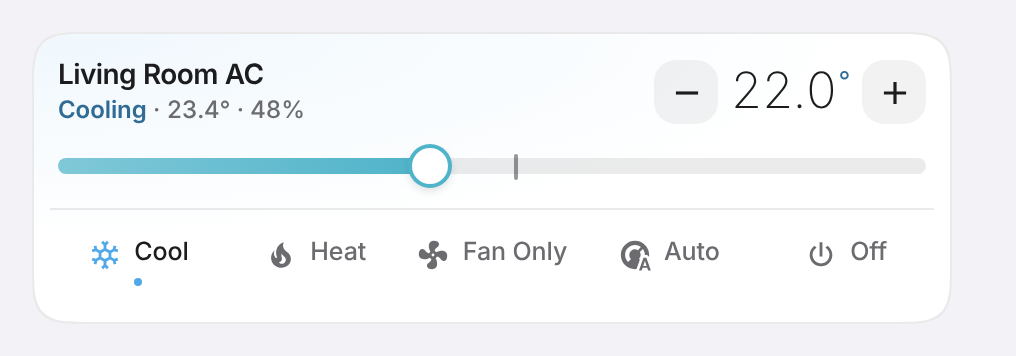
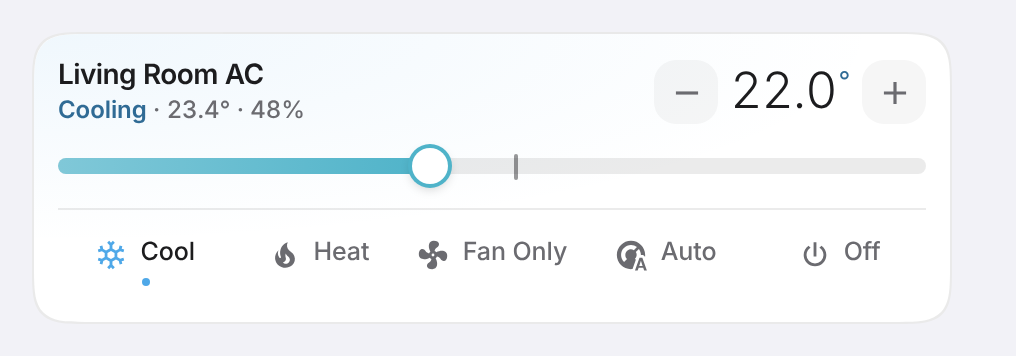
Grid heights for every card, light rows end with their state, climate tuned to the rest (0.20.2)
- Every card rounds its height up to whole sections-grid rows so neighbours end together; grid_options.rows and grid_snap: false opt out.
- Light rows: the state is last, the colour dot before it; the level is clipped to the row's corners while it animates.
- Climate: 32px header power key, quiet 40px steps, a steadier number, the modes' hairline within the card's edges.

diff --git a/dist/savvy-cards.js b/dist/savvy-cards.js
@@ -383,7 +383,57 @@ const BASE_CSS = `${ROLL_CSS}${GLOW_CSS}${DESIGN_CSS}
 
 // Registers a card for HA's card picker. Every Savvy card goes through this so the
 // picker shows them together, with previews.
+// Grid heights. In a sections view Home Assistant lays cards on rows of 56px with 8px between; a card
+// that sizes itself ("rows: auto") ends wherever its content ends, so two cards side by side that are
+// nearly the same height end a few pixels apart. Every Savvy card rounds its height up to whole rows,
+// so neighbours line up. Only inside a sections grid (it defines --row-height), never for a card given
+// a number of rows (Home Assistant sizes those), and `grid_snap: false` turns it off.
+function snapToGrid(host) {
+  const card = host.shadowRoot?.querySelector("ha-card");
+  if (!card) return;
+  const cs = getComputedStyle(host);
+  const row = parseFloat(cs.getPropertyValue("--row-height")), gap = parseFloat(cs.getPropertyValue("--row-gap"));
+  const rows = host._config?.grid_options?.rows ?? host.getGridOptions?.()?.rows;
+  const off = !Number.isFinite(row) || row <= 0 || typeof rows === "number" || host._config?.grid_snap === false;
+  const prev = card.style.minHeight;
+  if (off) { if (prev) card.style.minHeight = ""; return; }
+  // the natural height, measured without our own floor; putting the same value back reports no resize
+  card.style.minHeight = "";
+  const natural = card.offsetHeight;
+  if (!natural) { card.style.minHeight = prev; return; }
+  const step = row + (Number.isFinite(gap) ? gap : 8);
+  const snapped = Math.ceil((natural + step - row - 0.5) / step) * step - (step - row);
+  card.style.minHeight = `${Math.max(natural, snapped)}px`;
+}
+function wireGridSnap(cls) {
+  const proto = cls.prototype;
+  if (proto.__gridSnap) return;
+  proto.__gridSnap = true;
+  const connect = proto.connectedCallback, disconnect = proto.disconnectedCallback;
+  proto.connectedCallback = function () {
+    connect?.call(this);
+    if (this.__snapRo) return;
+    let card = null;
+    const seen = new WeakSet();
+    const ro = this.__snapRo = new ResizeObserver(() => {
+      // the card builds its shadow DOM when it gets hass: follow whichever ha-card is there now
+      const now = this.shadowRoot?.querySelector("ha-card") || null;
+      if (now !== card) { if (card) ro.unobserve(card); card = now; if (card) ro.observe(card); }
+      // content that shrinks inside a card held at its rows doesn't resize the card: watch the content too
+      for (const child of card?.children || []) if (!seen.has(child)) { seen.add(child); ro.observe(child); }
+      snapToGrid(this);
+    });
+    ro.observe(this);
+  };
+  proto.disconnectedCallback = function () {
+    disconnect?.call(this);
+    this.__snapRo?.disconnect();
+    this.__snapRo = null;
+  };
+}
+
 const registerCard = (type, cls, name, description) => {
+  wireGridSnap(cls);             // whole grid rows, so cards side by side end together
   wireSettings(type, cls);       // fills in what the dashboard's Savvy settings supply (core/settings)
   if (!customElements.get(type)) customElements.define(type, cls);
   window.customCards = window.customCards || [];
@@ -8443,32 +8493,37 @@ const STYLE = `
   ha-card { --accent-text: rgb(var(--accent)); }
   :host(:not([dark])) ha-card { --accent-text: color-mix(in oklab, rgb(var(--accent)) 72%, #000); }
 
+  /* the header key every card shares: 32px, tinted while on, a bare glyph while off */
   .power {
     flex: none; display: grid; place-items: center;
-    width: var(--c-l); height: var(--c-l); border-radius: 13px;
-    background: var(--well); color: var(--secondary-text-color);
+    width: var(--c-s); height: var(--c-s); border-radius: 11px;
+    background: transparent; color: var(--secondary-text-color);
   }
+  @media (hover: hover) { .power:not([data-on]):hover { background: var(--well); } }
   .power[data-on] { background: color-mix(in oklab, rgb(var(--accent)) var(--mix-on), transparent); color: rgb(var(--accent)); }
-  .power ha-icon { --mdc-icon-size: 21px; display: flex; }
+  .power ha-icon { --mdc-icon-size: 19px; display: flex; }
 
   /* ---- target temperature ---- */
-  .hero { display: flex; align-items: center; gap: 12px; margin-top: 10px; }
+  .hero { display: flex; align-items: center; gap: 12px; margin-top: 12px; }
   /* glass and matte: the target and its buttons are one tile, lit in the mode's colour */
   ha-card:is([data-glass], [data-matte]):not([data-compact]) .hero { padding: 10px 12px; border-radius: 18px; background: color-mix(in oklab, var(--primary-text-color) 4%, transparent); }
   ha-card[data-glass] .hero, ha-card[data-matte] .hero { --lx: 50%; --ly: 55%; }   /* the light comes from the number, now in the middle */
   .readout { flex: 1; min-width: 0; display: flex; align-items: flex-start; justify-content: center; order: 1; }
   .value {
-    font-size: 66px; line-height: 1; font-weight: 250; letter-spacing: -0.055em;
+    font-size: 60px; line-height: 1; font-weight: 300; letter-spacing: -0.045em;
     color: var(--primary-text-color);
   }
   .unit {
-    font-size: 26px; line-height: 1; font-weight: 400; letter-spacing: -0.01em;
-    color: var(--accent-text); margin: 10px 0 0 3px;
+    font-size: 22px; line-height: 1; font-weight: 400; letter-spacing: -0.01em;
+    color: var(--accent-text); margin: 8px 0 0 3px;
   }
   .steppers { display: contents; }
   #minus { order: 0; } #plus { order: 2; }
-  .step { display: grid; place-items: center; width: var(--c-l); height: var(--c-l); border-radius: 13px; background: var(--well); }
-  .step ha-icon { --mdc-icon-size: 22px; display: flex; }
+  /* quiet steps either side: a faint well, the rows' own material, not a grey block */
+  .step { display: grid; place-items: center; width: var(--c-l); height: var(--c-l); border-radius: 13px;
+    background: color-mix(in oklab, var(--primary-text-color) 4%, transparent); color: var(--secondary-text-color); }
+  @media (hover: hover) { .step:not([disabled]):hover { background: var(--well); color: var(--primary-text-color); } }
+  .step ha-icon { --mdc-icon-size: 20px; display: flex; }
   .step[disabled] { opacity: 0.34; cursor: default; }
 
   /* the bar is the control: grab it anywhere, it thickens under the finger */
@@ -8493,8 +8548,8 @@ const STYLE = `
   }
   .bounds {
     display: flex; justify-content: space-between;
-    margin: 2px 7px 0; font-size: 11px; line-height: 14px; font-weight: 500; letter-spacing: 0.01em;
-    color: var(--secondary-text-color); opacity: 0.75;
+    margin: 2px 7px 0; font-size: 12px; line-height: 16px; font-weight: 500; letter-spacing: -0.002em;
+    color: var(--secondary-text-color);
   }
 
   /* ---- readouts ---- */
@@ -8505,7 +8560,7 @@ const STYLE = `
   .stat ha-icon, .stat savvy-state-icon { --mdc-icon-size: 16px; flex: none; display: flex; color: var(--sc, var(--secondary-text-color)); }
   .stat .col { min-width: 0; display: flex; align-items: baseline; gap: 4px; }
   .stat .v { font-size: 14px; line-height: 18px; font-weight: 600; letter-spacing: -0.012em; white-space: nowrap; }
-  .stat .k { font-size: 13.5px; line-height: 18px; font-weight: 500; letter-spacing: -0.004em;
+  .stat .k { font-size: 13px; line-height: 18px; font-weight: 500; letter-spacing: -0.004em;
     color: var(--secondary-text-color); white-space: nowrap; overflow: hidden; text-overflow: ellipsis; text-transform: lowercase; }
 
   /* ---- segmented control ---- */
@@ -8514,7 +8569,7 @@ const STYLE = `
     padding: 3px; border-radius: 14px; background: var(--well);
   }
   /* the modes: a row of words under a hairline, the chosen one marked by its colour and a dot that slides */
-  .segmented.modes { margin: 14px -4px 0; padding: 6px 0 0; border-radius: 0; background: none; border-top: 1px solid var(--line); gap: 0; }
+  .segmented.modes { margin: 14px 0 0; padding: 6px 0 0; border-radius: 0; background: none; border-top: 1px solid var(--line); gap: 0; }
   .modes .seg { flex-direction: column; gap: 5px; height: 56px; padding-bottom: 6px; font-size: 13px; }
   .modes .seg ha-icon { --mdc-icon-size: 20px; }
   .segmented.modes .pill, .segmented.modes .pill[data-colored] { background: transparent; box-shadow: none; }
@@ -13161,8 +13216,10 @@ header { display: flex; align-items: center; gap: 10px; min-width: 0; padding: 2
 .light {
   position: relative; overflow: hidden; isolation: isolate;
   display: grid; grid-template-columns: var(--b-s) minmax(0, 1fr) auto; align-items: center; column-gap: 8px;
-  min-height: 56px; padding: 0 8px 0 12px; border-radius: 16px;
+  min-height: 56px; padding: 0 12px 0 12px; border-radius: 16px;
   background: var(--well); cursor: pointer; touch-action: pan-y;
+  /* overflow alone stops clipping to the corners while the level animates on its own layer: clip-path holds */
+  --row-r: 16px; clip-path: inset(0 round var(--row-r));
   --lit-text: rgb(var(--lc, var(--amber)));
 }
 :host(:not([dark])) .light { --lit-text: color-mix(in oklab, rgb(var(--lc, var(--amber))) 80%, #000); }
@@ -13194,8 +13251,9 @@ header { display: flex; align-items: center; gap: 10px; min-width: 0; padding: 2
 .meta .n { min-width: 0; font-size: 14px; line-height: 18px; font-weight: 560; letter-spacing: -0.01em;
   color: var(--secondary-text-color); white-space: nowrap; overflow: hidden; text-overflow: ellipsis; }
 .light[data-on] .meta .n { color: var(--primary-text-color); }
-.end { display: flex; align-items: center; gap: 0; }
-.d { flex: none; min-width: 34px; padding-inline-end: 4px; text-align: end;
+/* the state ends the row; the colour dot sits just before it, a power button before that */
+.end { display: flex; align-items: center; gap: 0; margin-inline-end: -2px; }
+.d { flex: none; min-width: 34px; padding-inline-start: 2px; text-align: end;
   font-size: 13px; line-height: 18px; font-weight: 500; letter-spacing: -0.004em; color: var(--secondary-text-color);
   white-space: nowrap; pointer-events: none; }
 .light[data-on] .d { color: var(--primary-text-color); }
@@ -13222,7 +13280,7 @@ ha-card[data-glass] .light, ha-card[data-matte] .light { --lx: 26px; --ly: 50%; 
 .light:not([data-dim]) .lvl { transition: transform 320ms cubic-bezier(0.2, 0.8, 0.2, 1); }
 @media (prefers-reduced-motion: reduce) { .light .lvl { transition: none; } }
 /* ---- compact: the light, its name and its state, and nothing else ---- */
-ha-card[data-compact] .light { grid-template-columns: var(--b-s) minmax(0, 1fr) auto; min-height: 46px; padding: 0 10px 0 8px; border-radius: 13px; --lx: 22px; }
+ha-card[data-compact] .light { grid-template-columns: var(--b-s) minmax(0, 1fr) auto; min-height: 46px; padding: 0 10px 0 8px; border-radius: 13px; --row-r: 13px; --lx: 22px; }
 ha-card[data-compact] .orb { width: var(--b-s); height: var(--b-s); }
 ha-card[data-compact] .orb ha-icon, ha-card[data-compact] .orb savvy-state-icon { --mdc-icon-size: 18px; }
 ha-card[data-compact] .meta .n { font-size: 13.5px; line-height: 18px; }
@@ -14085,9 +14143,9 @@ class LightsCard extends HTMLElement {
         <span class="orb"><savvy-state-icon></savvy-state-icon></span>
         <span class="meta"><span class="n"></span></span>
         <span class="end">
-          <span class="d"></span>
-          <button class="swatch" hidden><i></i></button>
           <button class="power" hidden><ha-icon icon="mdi:power"></ha-icon></button>
+          <button class="swatch" hidden><i></i></button>
+          <span class="d"></span>
         </span>`;
       cache.set(key, node);
       el.grid.appendChild(node);

diff --git a/src/cards/climate.js b/src/cards/climate.js
@@ -158,32 +158,37 @@ const STYLE = `
   ha-card { --accent-text: rgb(var(--accent)); }
   :host(:not([dark])) ha-card { --accent-text: color-mix(in oklab, rgb(var(--accent)) 72%, #000); }
 
+  /* the header key every card shares: 32px, tinted while on, a bare glyph while off */
   .power {
     flex: none; display: grid; place-items: center;
-    width: var(--c-l); height: var(--c-l); border-radius: 13px;
-    background: var(--well); color: var(--secondary-text-color);
+    width: var(--c-s); height: var(--c-s); border-radius: 11px;
+    background: transparent; color: var(--secondary-text-color);
   }
+  @media (hover: hover) { .power:not([data-on]):hover { background: var(--well); } }
   .power[data-on] { background: color-mix(in oklab, rgb(var(--accent)) var(--mix-on), transparent); color: rgb(var(--accent)); }
-  .power ha-icon { --mdc-icon-size: 21px; display: flex; }
+  .power ha-icon { --mdc-icon-size: 19px; display: flex; }
 
   /* ---- target temperature ---- */
-  .hero { display: flex; align-items: center; gap: 12px; margin-top: 10px; }
+  .hero { display: flex; align-items: center; gap: 12px; margin-top: 12px; }
   /* glass and matte: the target and its buttons are one tile, lit in the mode's colour */
   ha-card:is([data-glass], [data-matte]):not([data-compact]) .hero { padding: 10px 12px; border-radius: 18px; background: color-mix(in oklab, var(--primary-text-color) 4%, transparent); }
   ha-card[data-glass] .hero, ha-card[data-matte] .hero { --lx: 50%; --ly: 55%; }   /* the light comes from the number, now in the middle */
   .readout { flex: 1; min-width: 0; display: flex; align-items: flex-start; justify-content: center; order: 1; }
   .value {
-    font-size: 66px; line-height: 1; font-weight: 250; letter-spacing: -0.055em;
+    font-size: 60px; line-height: 1; font-weight: 300; letter-spacing: -0.045em;
     color: var(--primary-text-color);
   }
   .unit {
-    font-size: 26px; line-height: 1; font-weight: 400; letter-spacing: -0.01em;
-    color: var(--accent-text); margin: 10px 0 0 3px;
+    font-size: 22px; line-height: 1; font-weight: 400; letter-spacing: -0.01em;
+    color: var(--accent-text); margin: 8px 0 0 3px;
   }
   .steppers { display: contents; }
   #minus { order: 0; } #plus { order: 2; }
-  .step { display: grid; place-items: center; width: var(--c-l); height: var(--c-l); border-radius: 13px; background: var(--well); }
-  .step ha-icon { --mdc-icon-size: 22px; display: flex; }
+  /* quiet steps either side: a faint well, the rows' own material, not a grey block */
+  .step { display: grid; place-items: center; width: var(--c-l); height: var(--c-l); border-radius: 13px;
+    background: color-mix(in oklab, var(--primary-text-color) 4%, transparent); color: var(--secondary-text-color); }
+  @media (hover: hover) { .step:not([disabled]):hover { background: var(--well); color: var(--primary-text-color); } }
+  .step ha-icon { --mdc-icon-size: 20px; display: flex; }
   .step[disabled] { opacity: 0.34; cursor: default; }
 
   /* the bar is the control: grab it anywhere, it thickens under the finger */
@@ -208,8 +213,8 @@ const STYLE = `
   }
   .bounds {
     display: flex; justify-content: space-between;
-    margin: 2px 7px 0; font-size: 11px; line-height: 14px; font-weight: 500; letter-spacing: 0.01em;
-    color: var(--secondary-text-color); opacity: 0.75;
+    margin: 2px 7px 0; font-size: 12px; line-height: 16px; font-weight: 500; letter-spacing: -0.002em;
+    color: var(--secondary-text-color);
   }
 
   /* ---- readouts ---- */
@@ -220,7 +225,7 @@ const STYLE = `
   .stat ha-icon, .stat savvy-state-icon { --mdc-icon-size: 16px; flex: none; display: flex; color: var(--sc, var(--secondary-text-color)); }
   .stat .col { min-width: 0; display: flex; align-items: baseline; gap: 4px; }
   .stat .v { font-size: 14px; line-height: 18px; font-weight: 600; letter-spacing: -0.012em; white-space: nowrap; }
-  .stat .k { font-size: 13.5px; line-height: 18px; font-weight: 500; letter-spacing: -0.004em;
+  .stat .k { font-size: 13px; line-height: 18px; font-weight: 500; letter-spacing: -0.004em;
     color: var(--secondary-text-color); white-space: nowrap; overflow: hidden; text-overflow: ellipsis; text-transform: lowercase; }
 
   /* ---- segmented control ---- */
@@ -229,7 +234,7 @@ const STYLE = `
     padding: 3px; border-radius: 14px; background: var(--well);
   }
   /* the modes: a row of words under a hairline, the chosen one marked by its colour and a dot that slides */
-  .segmented.modes { margin: 14px -4px 0; padding: 6px 0 0; border-radius: 0; background: none; border-top: 1px solid var(--line); gap: 0; }
+  .segmented.modes { margin: 14px 0 0; padding: 6px 0 0; border-radius: 0; background: none; border-top: 1px solid var(--line); gap: 0; }
   .modes .seg { flex-direction: column; gap: 5px; height: 56px; padding-bottom: 6px; font-size: 13px; }
   .modes .seg ha-icon { --mdc-icon-size: 20px; }
   .segmented.modes .pill, .segmented.modes .pill[data-colored] { background: transparent; box-shadow: none; }

diff --git a/src/cards/lights.js b/src/cards/lights.js
@@ -164,8 +164,10 @@ header { display: flex; align-items: center; gap: 10px; min-width: 0; padding: 2
 .light {
   position: relative; overflow: hidden; isolation: isolate;
   display: grid; grid-template-columns: var(--b-s) minmax(0, 1fr) auto; align-items: center; column-gap: 8px;
-  min-height: 56px; padding: 0 8px 0 12px; border-radius: 16px;
+  min-height: 56px; padding: 0 12px 0 12px; border-radius: 16px;
   background: var(--well); cursor: pointer; touch-action: pan-y;
+  /* overflow alone stops clipping to the corners while the level animates on its own layer: clip-path holds */
+  --row-r: 16px; clip-path: inset(0 round var(--row-r));
   --lit-text: rgb(var(--lc, var(--amber)));
 }
 :host(:not([dark])) .light { --lit-text: color-mix(in oklab, rgb(var(--lc, var(--amber))) 80%, #000); }
@@ -197,8 +199,9 @@ header { display: flex; align-items: center; gap: 10px; min-width: 0; padding: 2
 .meta .n { min-width: 0; font-size: 14px; line-height: 18px; font-weight: 560; letter-spacing: -0.01em;
   color: var(--secondary-text-color); white-space: nowrap; overflow: hidden; text-overflow: ellipsis; }
 .light[data-on] .meta .n { color: var(--primary-text-color); }
-.end { display: flex; align-items: center; gap: 0; }
-.d { flex: none; min-width: 34px; padding-inline-end: 4px; text-align: end;
+/* the state ends the row; the colour dot sits just before it, a power button before that */
+.end { display: flex; align-items: center; gap: 0; margin-inline-end: -2px; }
+.d { flex: none; min-width: 34px; padding-inline-start: 2px; text-align: end;
   font-size: 13px; line-height: 18px; font-weight: 500; letter-spacing: -0.004em; color: var(--secondary-text-color);
   white-space: nowrap; pointer-events: none; }
 .light[data-on] .d { color: var(--primary-text-color); }
@@ -225,7 +228,7 @@ ha-card[data-glass] .light, ha-card[data-matte] .light { --lx: 26px; --ly: 50%; 
 .light:not([data-dim]) .lvl { transition: transform 320ms cubic-bezier(0.2, 0.8, 0.2, 1); }
 @media (prefers-reduced-motion: reduce) { .light .lvl { transition: none; } }
 /* ---- compact: the light, its name and its state, and nothing else ---- */
-ha-card[data-compact] .light { grid-template-columns: var(--b-s) minmax(0, 1fr) auto; min-height: 46px; padding: 0 10px 0 8px; border-radius: 13px; --lx: 22px; }
+ha-card[data-compact] .light { grid-template-columns: var(--b-s) minmax(0, 1fr) auto; min-height: 46px; padding: 0 10px 0 8px; border-radius: 13px; --row-r: 13px; --lx: 22px; }
 ha-card[data-compact] .orb { width: var(--b-s); height: var(--b-s); }
 ha-card[data-compact] .orb ha-icon, ha-card[data-compact] .orb savvy-state-icon { --mdc-icon-size: 18px; }
 ha-card[data-compact] .meta .n { font-size: 13.5px; line-height: 18px; }
@@ -1088,9 +1091,9 @@ class LightsCard extends HTMLElement {
         <span class="orb"><savvy-state-icon></savvy-state-icon></span>
         <span class="meta"><span class="n"></span></span>
         <span class="end">
-          <span class="d"></span>
-          <button class="swatch" hidden><i></i></button>
           <button class="power" hidden><ha-icon icon="mdi:power"></ha-icon></button>
+          <button class="swatch" hidden><i></i></button>
+          <span class="d"></span>
         </span>`;
       cache.set(key, node);
       el.grid.appendChild(node);

diff --git a/src/core/00-base.js b/src/core/00-base.js
@@ -377,7 +377,57 @@ const BASE_CSS = `${ROLL_CSS}${GLOW_CSS}${DESIGN_CSS}
 
 // Registers a card for HA's card picker. Every Savvy card goes through this so the
 // picker shows them together, with previews.
+// Grid heights. In a sections view Home Assistant lays cards on rows of 56px with 8px between; a card
+// that sizes itself ("rows: auto") ends wherever its content ends, so two cards side by side that are
+// nearly the same height end a few pixels apart. Every Savvy card rounds its height up to whole rows,
+// so neighbours line up. Only inside a sections grid (it defines --row-height), never for a card given
+// a number of rows (Home Assistant sizes those), and `grid_snap: false` turns it off.
+function snapToGrid(host) {
+  const card = host.shadowRoot?.querySelector("ha-card");
+  if (!card) return;
+  const cs = getComputedStyle(host);
+  const row = parseFloat(cs.getPropertyValue("--row-height")), gap = parseFloat(cs.getPropertyValue("--row-gap"));
+  const rows = host._config?.grid_options?.rows ?? host.getGridOptions?.()?.rows;
+  const off = !Number.isFinite(row) || row <= 0 || typeof rows === "number" || host._config?.grid_snap === false;
+  const prev = card.style.minHeight;
+  if (off) { if (prev) card.style.minHeight = ""; return; }
+  // the natural height, measured without our own floor; putting the same value back reports no resize
+  card.style.minHeight = "";
+  const natural = card.offsetHeight;
+  if (!natural) { card.style.minHeight = prev; return; }
+  const step = row + (Number.isFinite(gap) ? gap : 8);
+  const snapped = Math.ceil((natural + step - row - 0.5) / step) * step - (step - row);
+  card.style.minHeight = `${Math.max(natural, snapped)}px`;
+}
+function wireGridSnap(cls) {
+  const proto = cls.prototype;
+  if (proto.__gridSnap) return;
+  proto.__gridSnap = true;
+  const connect = proto.connectedCallback, disconnect = proto.disconnectedCallback;
+  proto.connectedCallback = function () {
+    connect?.call(this);
+    if (this.__snapRo) return;
+    let card = null;
+    const seen = new WeakSet();
+    const ro = this.__snapRo = new ResizeObserver(() => {
+      // the card builds its shadow DOM when it gets hass: follow whichever ha-card is there now
+      const now = this.shadowRoot?.querySelector("ha-card") || null;
+      if (now !== card) { if (card) ro.unobserve(card); card = now; if (card) ro.observe(card); }
+      // content that shrinks inside a card held at its rows doesn't resize the card: watch the content too
+      for (const child of card?.children || []) if (!seen.has(child)) { seen.add(child); ro.observe(child); }
+      snapToGrid(this);
+    });
+    ro.observe(this);
+  };
+  proto.disconnectedCallback = function () {
+    disconnect?.call(this);
+    this.__snapRo?.disconnect();
+    this.__snapRo = null;
+  };
+}
+
 const registerCard = (type, cls, name, description) => {
+  wireGridSnap(cls);             // whole grid rows, so cards side by side end together
   wireSettings(type, cls);       // fills in what the dashboard's Savvy settings supply (core/settings)
   if (!customElements.get(type)) customElements.define(type, cls);
   window.customCards = window.customCards || [];

diff --git a/CHANGELOG.md b/CHANGELOG.md
@@ -15,6 +15,13 @@
   (Spotify, Bluetooth: its source isn't the TV) is never the TV's sound: it stays in Listen with its own bar
   (`output_source` names its TV input when it has another name). With two TVs each is its own screen, and a
   source with no `screen` of its own plays on the first.
+- **Grid heights:** in a sections view every card is a whole number of grid rows tall (56px rows, 8px between),
+  so cards side by side end together instead of a few pixels apart. Cards given a number of rows keep it;
+  `grid_snap: false` turns it off.
+- **Lights:** the state ends the row, the colour dot just before it. The level stays inside the row's rounded
+  corners while it animates.
+- **Climate, tuned to the rest:** the power key is the 32px header key every card uses (a bare glyph while off),
+  the steps are quiet wells, the number is a touch steadier, the modes' hairline sits within the card's edges.
 - **Room header: how many lights are on.** A Lights chip leads its row ("3 on", or Off, dimmed); a tap lists the
   room's lights with all on and all off. `lights: false` hides it. Everything else the room has stays in the row,
   idle ones dimmed, never hidden.

diff --git a/README.md b/README.md
@@ -1641,6 +1641,12 @@ rooms:
 
 Every card takes `design: glass`, `design: matte` or `design: plain`. Empty follows the dashboard's `design.style` in the [settings card](#savvy-settings); plain is the default. See [Glass](#glass) and [Matte](#matte).
 
+### Grid heights
+
+In a sections view, every card rounds its height up to whole grid rows (Home Assistant's 56px rows and 8px
+gaps), so cards side by side end together. A card given `grid_options: { rows: n }` keeps the height Home
+Assistant gives it, and `grid_snap: false` turns it off for one card.
+
 ### Chips
 
 One chip format everywhere: `entity`, `name`, `icon`, `color` (a Home Assistant colour name or hex),
